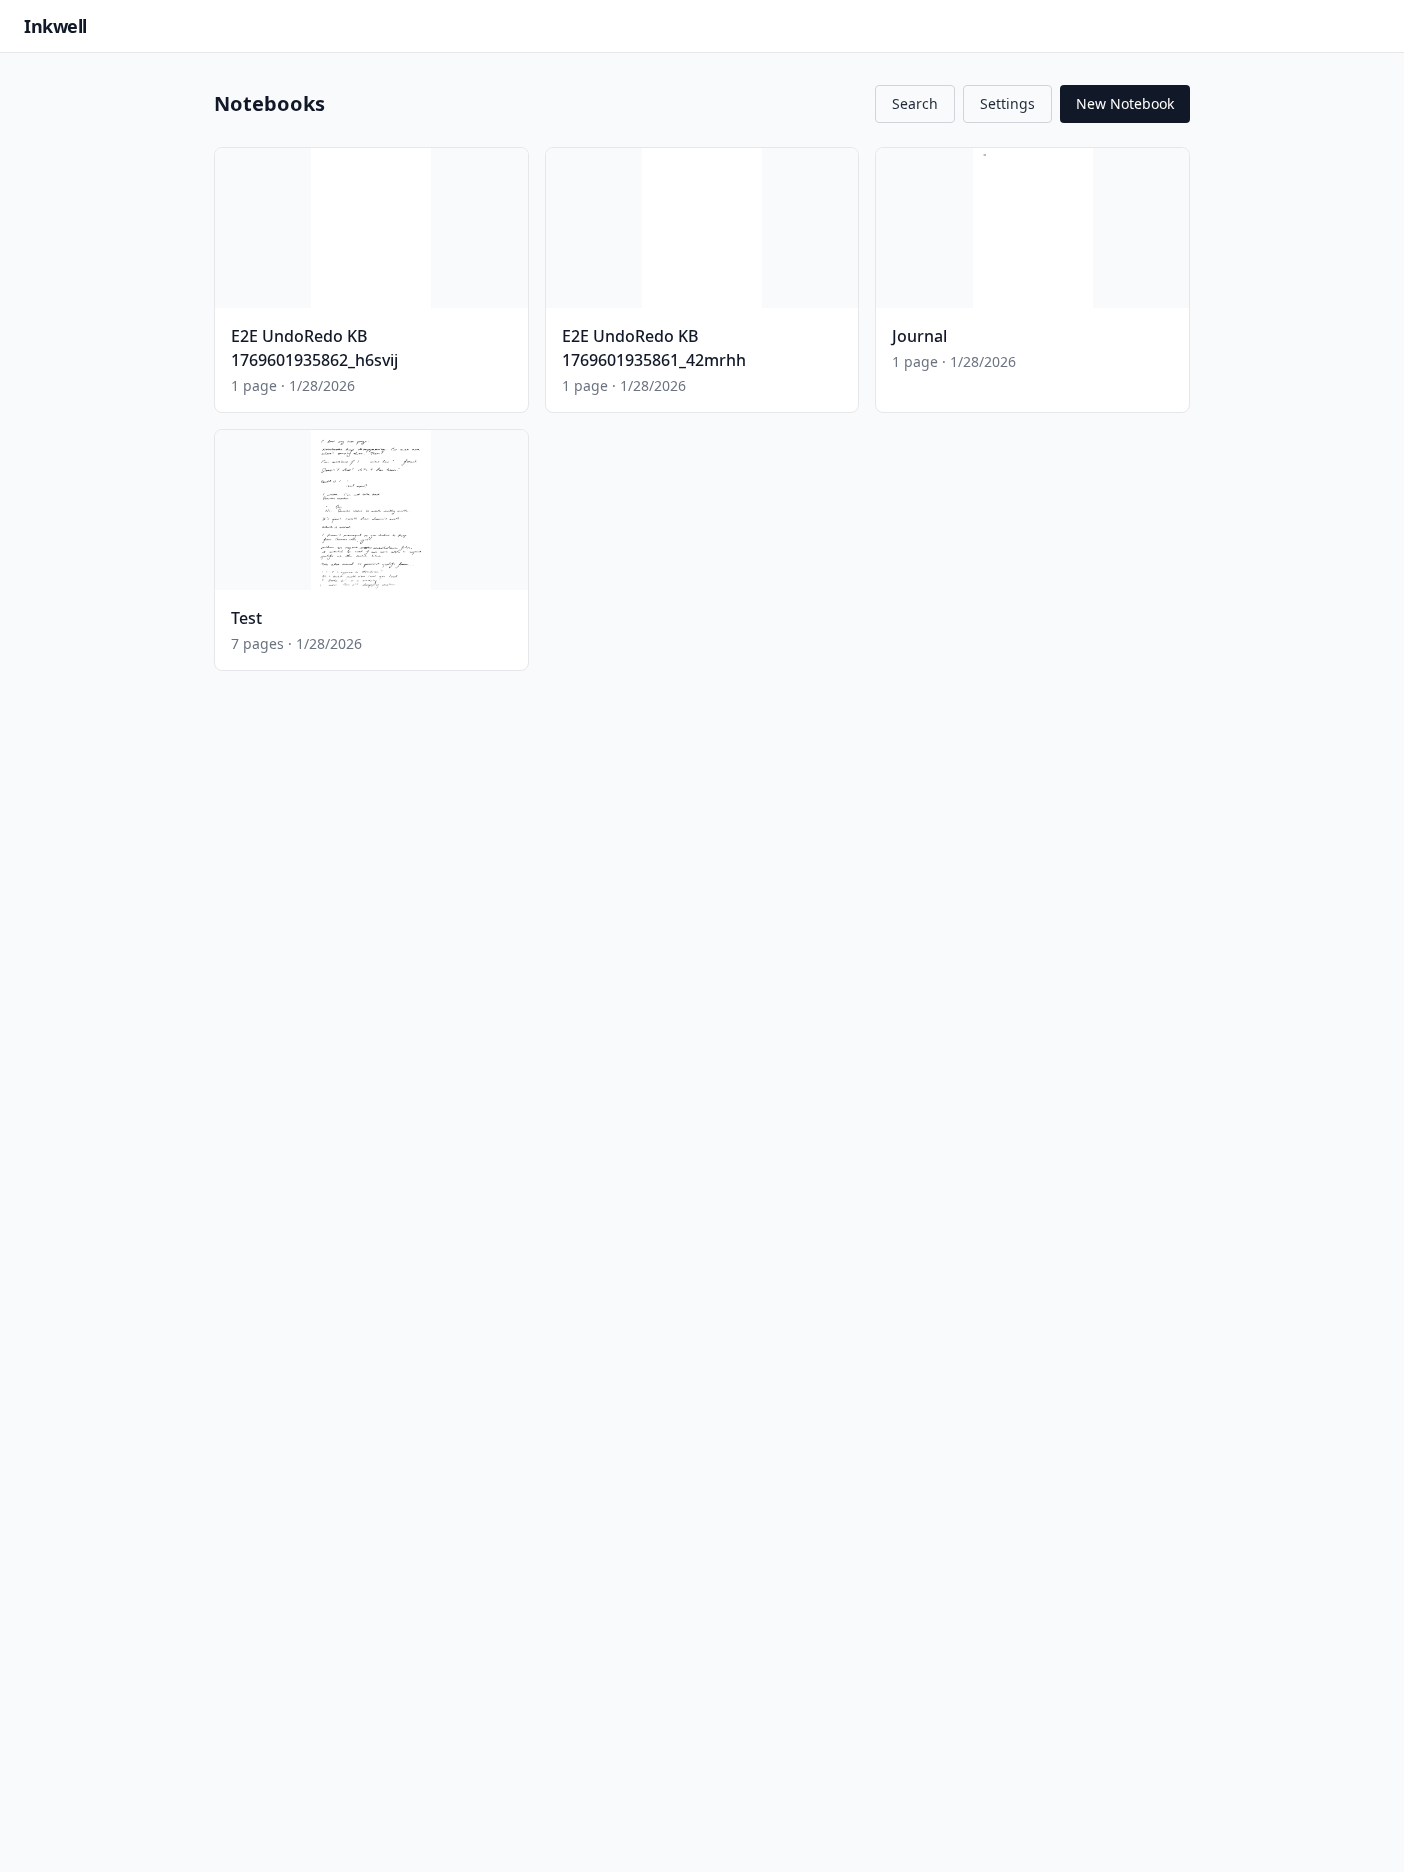
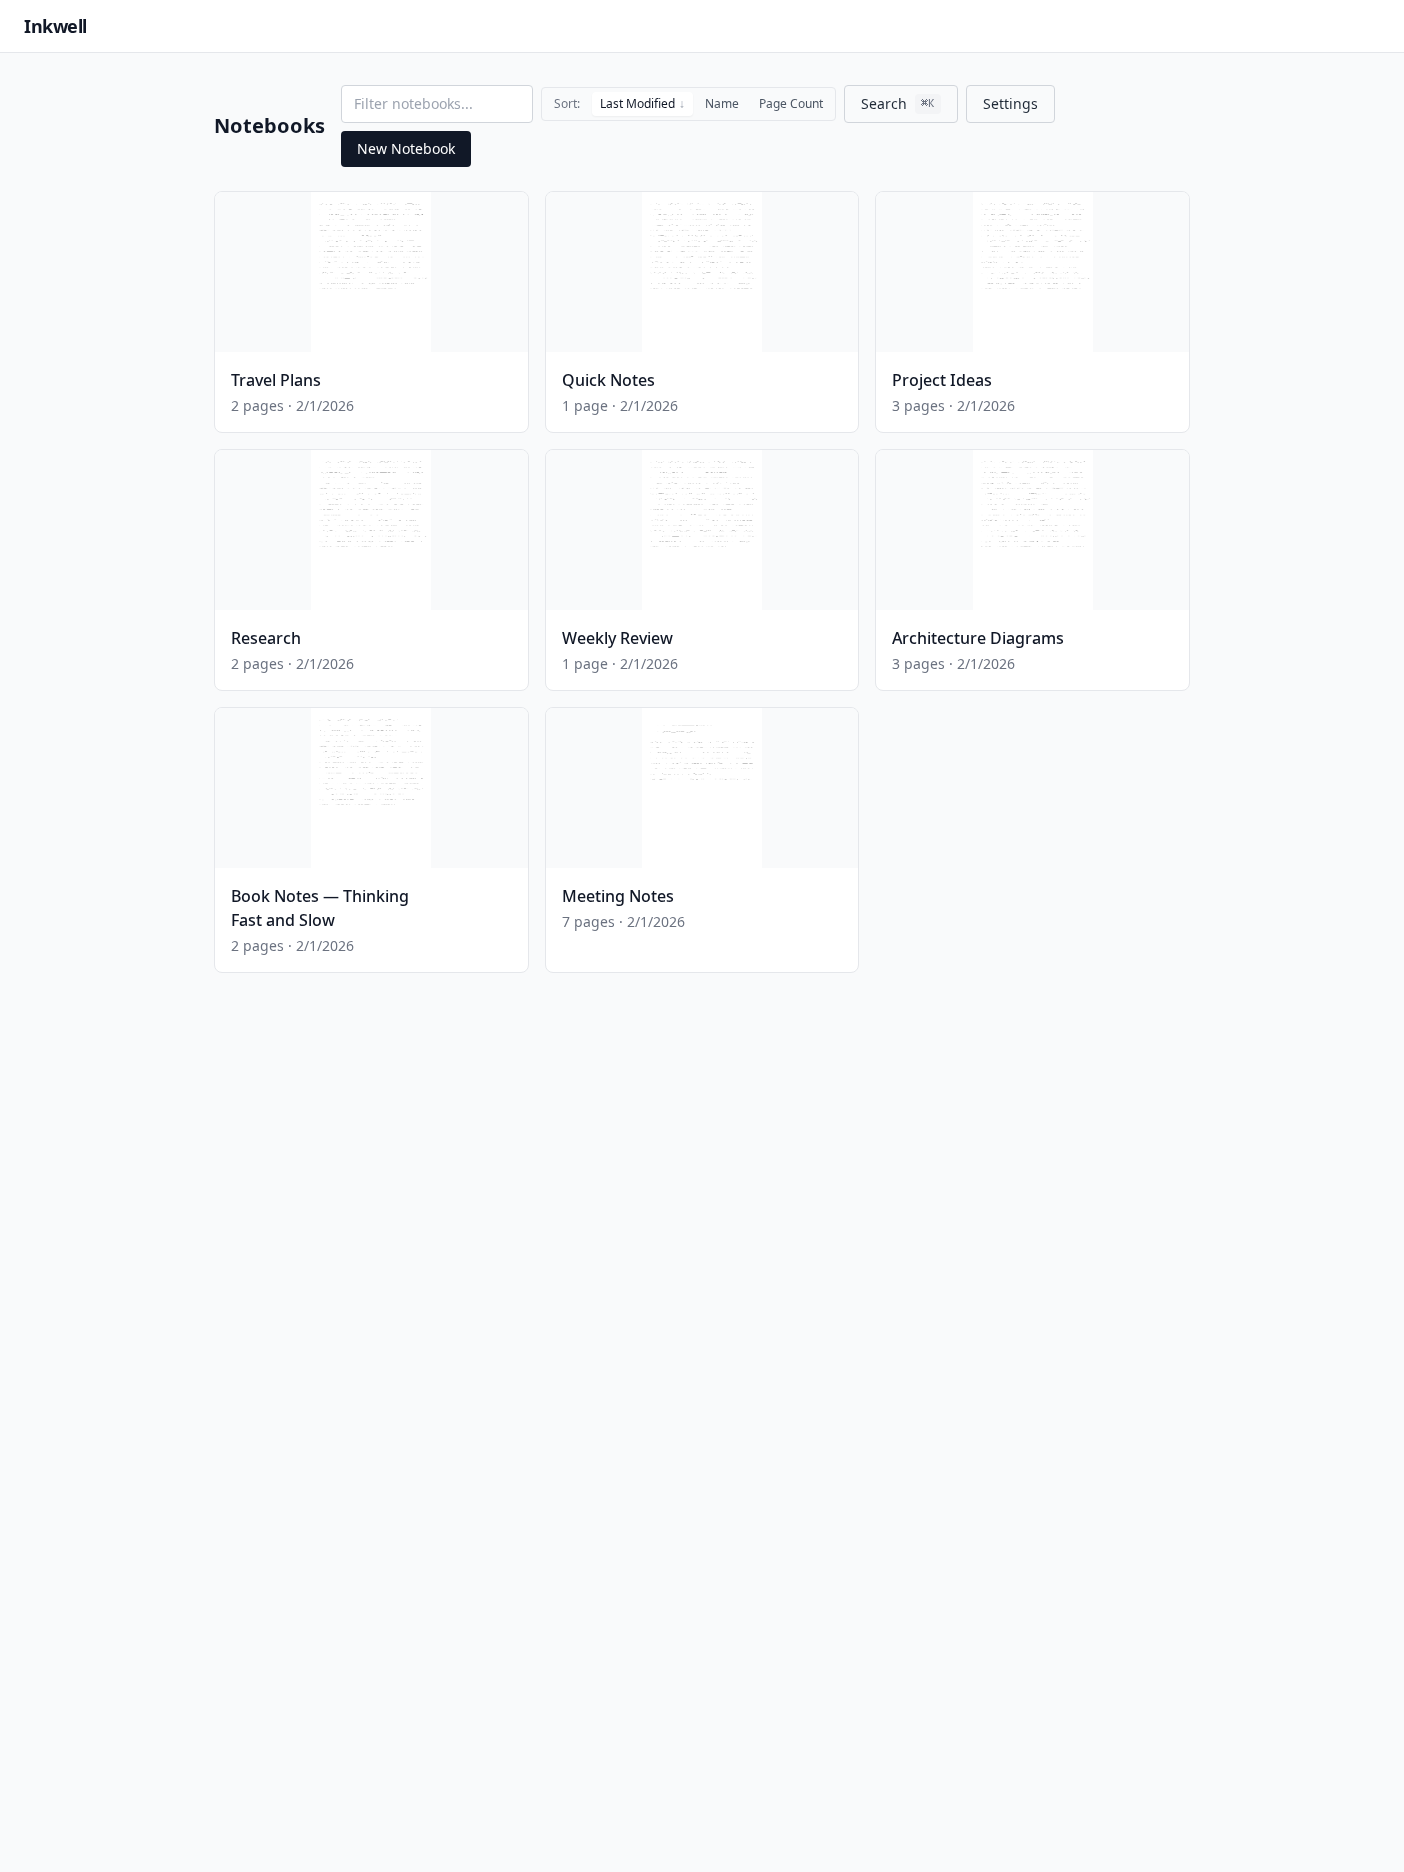
chore: Replace README screenshots with generated demo data
Rewrite take-screenshots.ts to create temporary demo notebooks with
procedurally generated handwriting-like strokes instead of capturing
personal notes. Uses Playwright route interception to filter the
notebook list API to only show demo data. All demo data is cleaned
up after screenshots are taken.

Add search screenshot to README.

diff --git a/take-screenshots.ts b/take-screenshots.ts
@@ -2,67 +2,316 @@ import { chromium } from "@playwright/test";
 
 const BASE = "http://localhost:5175";
 const API = "http://localhost:3001";
+const PAGE_WIDTH = 1404;
+
+// ---------------------------------------------------------------------------
+// Stroke generation — creates handwriting-like wavy strokes
+// ---------------------------------------------------------------------------
+
+interface Point {
+  x: number;
+  y: number;
+  pressure: number;
+}
+
+interface Stroke {
+  id: string;
+  timestamp: number;
+  tool: string;
+  color: string;
+  width: number;
+  points: Point[];
+  createdAt: string;
+}
+
+let counter = 0;
+
+/** Single "word" stroke — a wavy line from startX to endX at baseY. */
+function wordStroke(
+  startX: number,
+  endX: number,
+  baseY: number,
+  seed: number,
+): Stroke {
+  const points: Point[] = [];
+  const len = endX - startX;
+  const steps = Math.max(12, Math.floor(len / 10));
+
+  for (let i = 0; i <= steps; i++) {
+    const t = i / steps;
+    const x = startX + len * t;
+    const y =
+      baseY +
+      Math.sin(t * Math.PI * (4 + (seed % 3))) * (2.5 + (seed % 2)) +
+      Math.sin(t * Math.PI * (9 + (seed % 5)) + seed) * 1.2 +
+      Math.sin(t * Math.PI * 0.5) * (seed % 2 === 0 ? 1.5 : -1);
+    const pressure = Math.max(
+      0.2,
+      Math.min(
+        0.85,
+        0.45 +
+          0.3 * Math.sin(t * Math.PI) +
+          0.04 * Math.sin(t * Math.PI * 11 + seed),
+      ),
+    );
+    points.push({ x, y, pressure });
+  }
+
+  return {
+    id: `st_demo_${++counter}`,
+    timestamp: Date.now(),
+    tool: "pen",
+    color: "#000000",
+    width: 2,
+    points,
+    createdAt: new Date().toISOString(),
+  };
+}
+
+/** One line of handwriting — several word-like strokes with gaps. */
+function handwritingLine(baseY: number, lineIdx: number): Stroke[] {
+  const strokes: Stroke[] = [];
+  const seed = lineIdx * 17 + 42;
+  const margin = 100;
+  const rightEdge = PAGE_WIDTH - 80;
+  const wordCount = 3 + (seed % 4);
+  const gap = 25 + (seed % 12);
+  const usable = rightEdge - margin - (wordCount - 1) * gap;
+
+  const weights = Array.from(
+    { length: wordCount },
+    (_, i) => 0.5 + (((seed + i * 13) % 100) / 100),
+  );
+  const totalWeight = weights.reduce((a, b) => a + b, 0);
+
+  let x = margin;
+  for (let w = 0; w < wordCount; w++) {
+    const width = (weights[w] / totalWeight) * usable;
+    if (width < 25 || x + width > rightEdge) break;
+    strokes.push(wordStroke(x, x + width, baseY, seed + w * 7));
+    x += width + gap;
+  }
+
+  // Occasionally shorten the last line of a paragraph
+  if (lineIdx % 7 === 6 && strokes.length > 2) strokes.pop();
+  return strokes;
+}
+
+/** Full page of handwriting. */
+function fullPage(pageIdx: number): Stroke[] {
+  const strokes: Stroke[] = [];
+  const topMargin = 140;
+  const lineSpacing = 62;
+  const lineCount = 14 + ((pageIdx * 7 + 3) % 10);
+
+  for (let i = 0; i < lineCount; i++) {
+    const y = topMargin + i * lineSpacing;
+    if (y > 1750) break;
+    const indent = i % 7 === 0 && i > 0 ? 60 : 0;
+    for (const s of handwritingLine(y, i + pageIdx * 100)) {
+      if (indent) s.points = s.points.map((p) => ({ ...p, x: p.x + indent }));
+      strokes.push(s);
+    }
+  }
+  return strokes;
+}
+
+/** Title page — a bold heading plus a few body lines. */
+function titlePage(pageIdx: number): Stroke[] {
+  const strokes: Stroke[] = [];
+  const title = wordStroke(180, 850, 200, pageIdx * 31);
+  title.width = 4;
+  strokes.push(title);
+  const sub = wordStroke(180, 650, 280, pageIdx * 31 + 5);
+  sub.width = 3;
+  strokes.push(sub);
+
+  const startY = 400;
+  const lines = 8 + (pageIdx % 4);
+  for (let i = 0; i < lines; i++) {
+    const y = startY + i * 62;
+    if (y > 1750) break;
+    strokes.push(...handwritingLine(y, i + pageIdx * 50));
+  }
+  return strokes;
+}
+
+/** Sparse page — just a handful of lines. */
+function sparsePage(pageIdx: number): Stroke[] {
+  const strokes: Stroke[] = [];
+  const lines = 3 + (pageIdx % 3);
+  for (let i = 0; i < lines; i++) {
+    strokes.push(...handwritingLine(140 + i * 62, i + pageIdx * 200));
+  }
+  return strokes;
+}
+
+// ---------------------------------------------------------------------------
+// API helpers
+// ---------------------------------------------------------------------------
+
+async function createNotebook(title: string) {
+  const res = await fetch(`${API}/api/notebooks`, {
+    method: "POST",
+    headers: { "Content-Type": "application/json" },
+    body: JSON.stringify({ title }),
+  });
+  return (await res.json()) as { id: string; title: string };
+}
+
+async function addPage(notebookId: string) {
+  const res = await fetch(`${API}/api/notebooks/${notebookId}/pages`, {
+    method: "POST",
+  });
+  return (await res.json()) as { id: string };
+}
+
+async function addStrokes(pageId: string, strokes: Stroke[]) {
+  await fetch(`${API}/api/pages/${pageId}/strokes`, {
+    method: "POST",
+    headers: { "Content-Type": "application/json" },
+    body: JSON.stringify({ strokes }),
+  });
+}
+
+async function deleteNotebook(id: string) {
+  await fetch(`${API}/api/notebooks/${id}`, { method: "DELETE" });
+}
+
+// ---------------------------------------------------------------------------
+// Main
+// ---------------------------------------------------------------------------
 
 async function main() {
+  console.log("Creating demo data...\n");
+
+  const demoNotebooks: { id: string; title: string }[] = [];
+  const titles = [
+    "Meeting Notes",
+    "Book Notes — Thinking Fast and Slow",
+    "Architecture Diagrams",
+    "Weekly Review",
+    "Research",
+    "Project Ideas",
+    "Quick Notes",
+    "Travel Plans",
+  ];
+
+  for (const title of titles) {
+    demoNotebooks.push(await createNotebook(title));
+  }
+  const demoIds = new Set(demoNotebooks.map((nb) => nb.id));
+
+  // Populate the main notebook with varied page content
+  const mainNb = demoNotebooks[0]; // "Meeting Notes"
+  const generators = [
+    titlePage,
+    fullPage,
+    fullPage,
+    sparsePage,
+    fullPage,
+    fullPage,
+    sparsePage,
+  ];
+  for (let i = 0; i < generators.length; i++) {
+    const p = await addPage(mainNb.id);
+    const strokes = generators[i](i);
+    await addStrokes(p.id, strokes);
+    console.log(`  ${mainNb.title} p${i + 1}: ${strokes.length} strokes`);
+  }
+
+  // Give other notebooks at least one page so they show thumbnails
+  for (const nb of demoNotebooks) {
+    if (nb.id === mainNb.id) continue;
+    const count = 1 + (demoNotebooks.indexOf(nb) % 3);
+    for (let j = 0; j < count; j++) {
+      const p = await addPage(nb.id);
+      await addStrokes(p.id, fullPage(demoNotebooks.indexOf(nb) * 10 + j));
+    }
+  }
+
+  // Wait for server-side thumbnail generation
+  console.log("\nWaiting for thumbnails...");
+  await new Promise((r) => setTimeout(r, 3000));
+
+  // ------------------------------------------------------------------
+  // Take screenshots
+  // ------------------------------------------------------------------
+  console.log("Taking screenshots...\n");
+
   const browser = await chromium.launch();
-  const context = await browser.newContext({
-    viewport: { width: 1404, height: 1872 }, // e-ink tablet size
+  const ctx = await browser.newContext({
+    viewport: { width: 1404, height: 1872 },
   });
-  const page = await context.newPage();
+  const page = await ctx.newPage();
 
-  // 1. Notebook list view
-  await page.goto(BASE);
-  await page.waitForSelector("text=Notebooks");
-  await page.waitForTimeout(500);
-  await page.screenshot({ path: "screenshots/01-notebook-list.png" });
-  console.log("✓ Notebook list screenshot");
+  // Intercept the notebook-list endpoint so only demo notebooks appear.
+  // Uses a regex to match exactly /api/notebooks (not sub-paths like
+  // /api/notebooks/:id/pages).
+  await page.route(/\/api\/notebooks(\?.*)?$/, async (route, request) => {
+    if (request.method() !== "GET") {
+      await route.continue();
+      return;
+    }
+    const response = await route.fetch();
+    const all = await response.json();
+    const filtered = (all as { id: string }[]).filter((nb) =>
+      demoIds.has(nb.id),
+    );
+    await route.fulfill({ json: filtered });
+  });
 
-  // 2. Open a notebook with pages - use "Test" which has 7 pages
-  const notebooks = await fetch(`${API}/api/notebooks`).then((r) => r.json());
-  const testNotebook = notebooks.find((n: any) => n.title === "Test");
+  try {
+    // 1. Notebook list
+    await page.goto(BASE);
+    await page.waitForSelector("text=Notebooks");
+    await page.waitForTimeout(1000);
+    await page.screenshot({ path: "screenshots/01-notebook-list.png" });
+    console.log("✓ Notebook list");
 
-  if (!testNotebook) {
-    console.log("No 'Test' notebook found, using first available");
-  }
+    // 2. Open the main demo notebook
+    await page.click(`text=${mainNb.title}`);
+    await page.waitForURL(/\/notebook\/nb_.*\/page\//);
+    await page.waitForTimeout(800);
 
-  const notebookId = testNotebook?.id || notebooks[0]?.id;
-  if (!notebookId) {
-    console.error("No notebooks available");
+    // 3. Single page view (default)
+    await page.screenshot({ path: "screenshots/02-page-view.png" });
+    console.log("✓ Page view");
+
+    // 4. Canvas view
+    await page.click('button:has-text("Canvas")');
+    await page.waitForTimeout(800);
+    // Dismiss the Quick Tips tooltip if visible
+    const gotIt = page.getByRole("button", { name: "Got it" });
+    if (await gotIt.isVisible()) await gotIt.click();
+    await page.waitForTimeout(300);
+    await page.screenshot({ path: "screenshots/03-canvas-view.png" });
+    console.log("✓ Canvas view");
+
+    // 5. Overview view
+    await page.click('button:has-text("Overview")');
+    await page.waitForTimeout(800);
+    await page.screenshot({ path: "screenshots/04-overview-view.png" });
+    console.log("✓ Overview view");
+
+    // 6. Search dialog
+    await page.goto(BASE);
+    await page.waitForSelector("text=Notebooks");
+    await page.getByTestId("search-button").click();
+    await page.waitForTimeout(500);
+    await page.screenshot({ path: "screenshots/05-search.png" });
+    console.log("✓ Search");
+  } finally {
     await browser.close();
-    return;
   }
 
-  // Click on notebook to open it
-  await page.click(`text=${testNotebook?.title || notebooks[0].title}`);
-  await page.waitForURL(/\/notebook\/nb_.*\/page\//);
-  await page.waitForTimeout(500);
+  // Clean up demo data
+  console.log("\nCleaning up...");
+  for (const nb of demoNotebooks) {
+    await deleteNotebook(nb.id);
+  }
 
-  // 3. Single page view (default)
-  await page.screenshot({ path: "screenshots/02-page-view.png" });
-  console.log("✓ Page view screenshot");
-
-  // 4. Canvas view
-  await page.click('button:has-text("Canvas")');
-  await page.waitForTimeout(500);
-  await page.screenshot({ path: "screenshots/03-canvas-view.png" });
-  console.log("✓ Canvas view screenshot");
-
-  // 5. Overview view
-  await page.click('button:has-text("Overview")');
-  await page.waitForTimeout(500);
-  await page.screenshot({ path: "screenshots/04-overview-view.png" });
-  console.log("✓ Overview view screenshot");
-
-  // 6. Search view - go back to home and use search
-  await page.goto(BASE);
-  await page.waitForSelector("text=Notebooks");
-  await page.click('button[aria-label="Search"]');
-  await page.waitForTimeout(300);
-  await page.screenshot({ path: "screenshots/05-search.png" });
-  console.log("✓ Search screenshot");
-
-  await browser.close();
-  console.log("\nAll screenshots saved to ./screenshots/");
+  console.log("Done — screenshots saved to ./screenshots/");
 }
 
 main().catch(console.error);

diff --git a/README.md b/README.md
@@ -32,6 +32,12 @@ Grid-based page management. Select multiple pages for bulk operations (tagging, 
 
 ![Overview view](screenshots/04-overview-view.png)
 
+### Search
+
+Full-text search across transcriptions. Open with the Search button or Cmd+K.
+
+![Search](screenshots/05-search.png)
+
 ## Features
 
 - Notebooks containing pages on a 2D canvas
